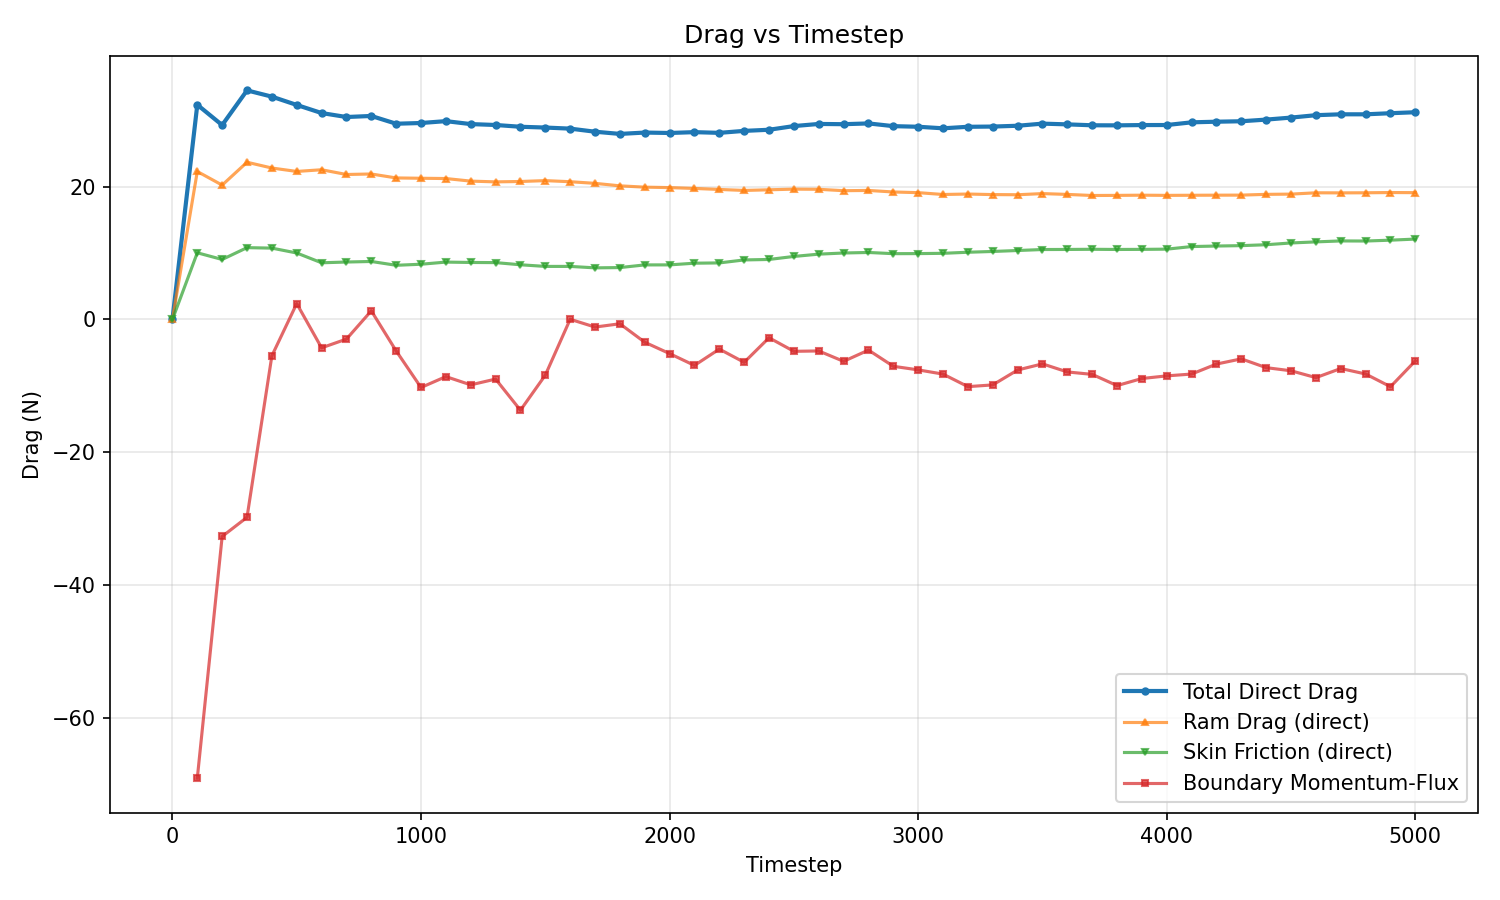
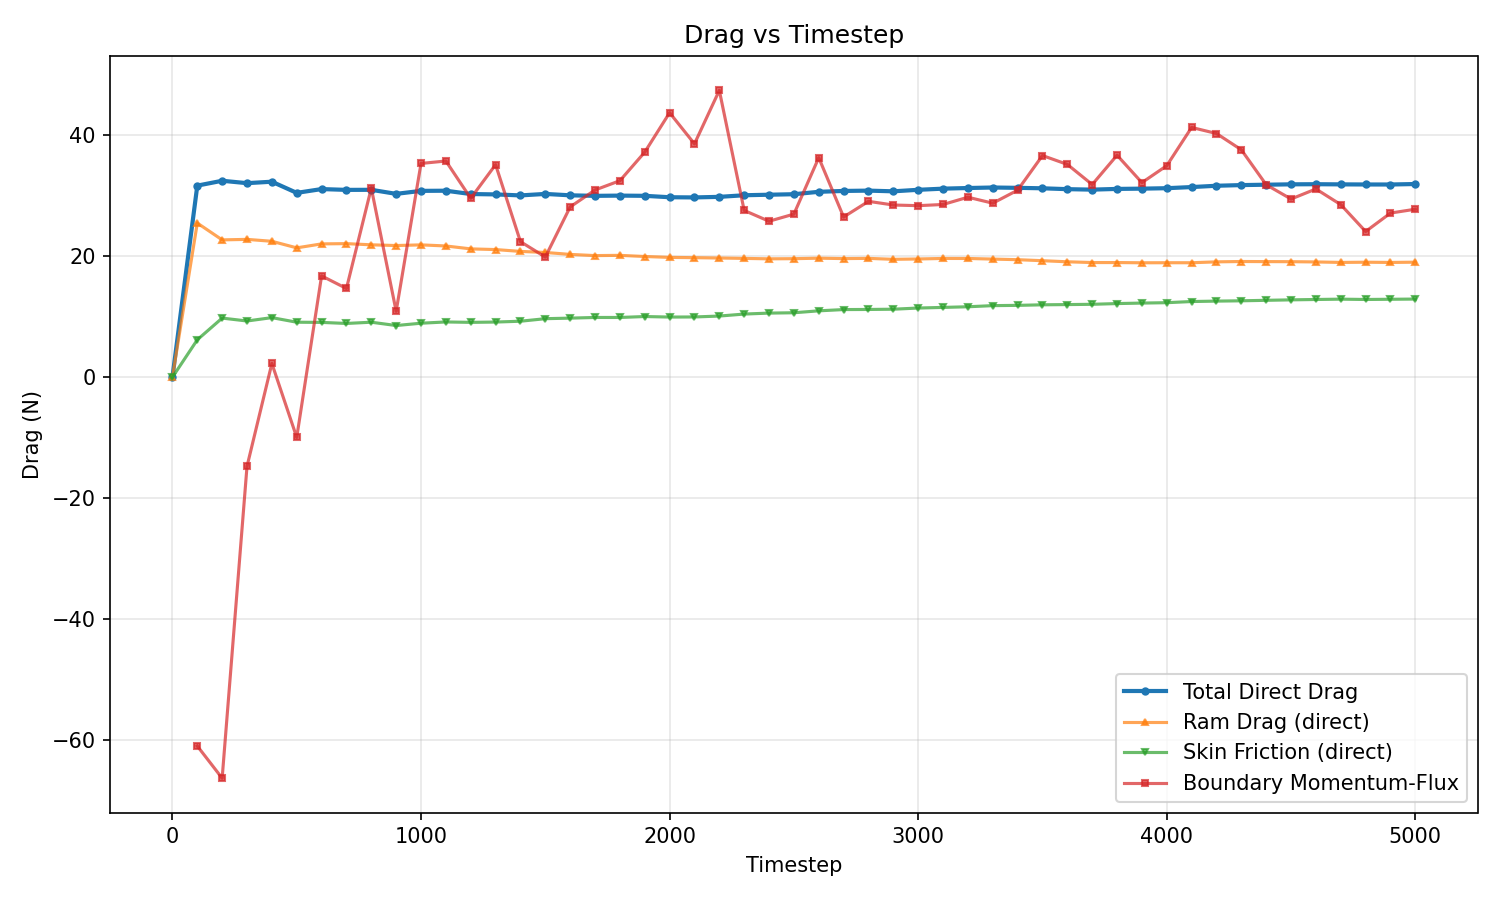
DRAG WORKS: Bdy drag averaging fix, streamlines bounds fix

diff --git a/scripts/plot_drag.py b/scripts/plot_drag.py
@@ -40,9 +40,9 @@ def read_drag(path):
 
 def read_flux_file(path):
 	"""
-	Read a flux data file with timestep, mass flux (Φ_m), and KE flux (Φ_ke) columns.
-	Also derive an effective normal speed v_n = sqrt(2 Φ_ke / Φ_m).
-	Returns: timesteps, mass_flux (Φ_m), ke_flux (Φ_ke), velocity (v_n).
+	Read a plane flux file with timestep, M_dot (kg/s), E_dot (W), N_dot (1/s).
+	Also derive an effective normal speed v_eff = sqrt(2 * E_dot / M_dot).
+	Returns: timesteps, M_dot, E_dot, v_eff, N_dot.
 	"""
 	if not os.path.exists(path):
 		raise FileNotFoundError(f"Pressure file not found: {path}")
@@ -51,25 +51,25 @@ def read_flux_file(path):
 		# single line
 		data = data.reshape((1, -1))
 	if data.shape[1] < 3:
-		raise ValueError("Expected at least three columns: timestep, mass_flux, ke_flux")
+		raise ValueError("Expected at least three columns: timestep, M_dot, E_dot")
 	
 	timesteps = data[:, 0]
-	mass_flux = data[:, 1]  # Φ_m (kg/m²/s)
-	ke_flux = data[:, 2]    # Φ_KE (J/m²/s)
-	n_flux = data[:, 3]    # Φ_N
+	m_dot = data[:, 1]  # total mass flow (kg/s)
+	e_dot = data[:, 2]  # total KE flow (W)
+	n_dot = data[:, 3]  # total number flow (1/s)
 	
 	# Debug: print flux values
 	print(f"\n{path}:")
-	print(f"  mass_flux mean: {np.mean(mass_flux):.6e}")
-	print(f"  ke_flux mean: {np.mean(ke_flux):.6e}")
-	print(f"  n_flux mean: {np.mean(n_flux):.6e}")
+	print(f"  M_dot mean: {np.mean(m_dot):.6e} kg/s")
+	print(f"  E_dot mean: {np.mean(e_dot):.6e} W")
+	print(f"  N_dot mean: {np.mean(n_dot):.6e} 1/s")
 
 	# Calculate velocity: v = sqrt(2*Φ_KE / Φ_m)
 	# Avoid division by zero
 	with np.errstate(divide='ignore', invalid='ignore'):
-		velocity = np.sqrt(2.0 * ke_flux / mass_flux)
+		velocity = np.sqrt(2.0 * e_dot / m_dot)
 
-	return timesteps, mass_flux, ke_flux, velocity, n_flux
+	return timesteps, m_dot, e_dot, velocity, n_dot
 
 
 def read_in_ampt_area(path='in.ampt'):
@@ -113,11 +113,17 @@ def main():
 	xlo_file = 'dumps/xlo_flux.dat'
 	xhi_file = 'dumps/xhi_flux.dat'
 	
-	# read flux data from xlo and xhi boundary surfaces, derive momentum flux Π = Φ_m * v
-	t_xlo, m_lo, ke_lo, v_lo, n_lo = read_flux_file(xlo_file)
-	t_xhi, m_hi, ke_hi, v_hi, n_hi = read_flux_file(xhi_file)
+	# read total flow data from xlo and xhi boundary surfaces
+	t_xlo, m_lo_dot, e_lo_dot, v_lo, n_lo_dot = read_flux_file(xlo_file)
+	t_xhi, m_hi_dot, e_hi_dot, v_hi, n_hi_dot = read_flux_file(xhi_file)
 	
 	area = read_in_ampt_area('in.ampt') # cross-sectional area in m^2
+	# convert totals to per-area fluxes
+	m_lo = m_lo_dot / area
+	m_hi = m_hi_dot / area
+	n_lo = n_lo_dot / area
+	n_hi = n_hi_dot / area
+
 	# Momentum-flux-based boundary drag: F ≈ (Π_lo - Π_hi) * A, where Π = Φ_m * v
 	pi_lo = m_lo * v_lo
 	pi_hi = m_hi * v_hi

diff --git a/scripts/streamlines.py b/scripts/streamlines.py
@@ -104,6 +104,30 @@ def load_flow_frame(prefix, step, dumps_dir=DUMPS_DIR):
             raise FileNotFoundError(f"Missing dump for step {step}: {path}")
         return read_sparta_grid_dump(path)
 
+# --------------------------------------------------------------------------------------
+
+def _safe_start_points(xc, yc, n_tracks):
+    """Generate start points strictly inside data bounds to satisfy streamplot."""
+    # small offsets to avoid touching domain extrema
+    if xc.size > 1:
+        dx = float(xc[1] - xc[0])
+    else:
+        dx = 0.0
+    if yc.size > 1:
+        dy = float(yc[1] - yc[0])
+    else:
+        dy = 0.0
+    epsx = 0.25 * dx
+    epsy = 0.25 * dy
+    x0 = float(xc[0] + epsx)
+    y_lo = float(yc[0] + epsy)
+    y_hi = float(yc[-1] - epsy) if yc.size > 1 else float(yc[0])
+    if y_hi < y_lo:
+        y_hi = y_lo
+    start_y = np.linspace(y_lo, y_hi, n_tracks, endpoint=True)
+    return np.column_stack((np.full_like(start_y, x0), start_y))
+
+# --------------------------------------------------------------------------------------
 
 def plot_streamlines(x_centers, y_centers, x_edges, y_edges, u_grid, v_grid, speed_grid, step, dt, output_path=OUTPUT_PATH):
     """draw a speed heatmap with white streamlines so the flow direction is obvious"""
@@ -122,8 +146,7 @@ def plot_streamlines(x_centers, y_centers, x_edges, y_edges, u_grid, v_grid, spe
     img = ax.imshow(speed_plot, extent=extent, origin='lower', cmap=cmap, aspect='auto')
 
     n_tracks = 100
-    start_y = np.linspace(y_centers[0], y_centers[-1], n_tracks, endpoint=True)
-    start_points = np.column_stack((np.full_like(start_y, x_centers[0]), start_y))
+    start_points = _safe_start_points(x_centers, y_centers, n_tracks)
 
     ax.streamplot(
         X,
@@ -216,8 +239,7 @@ def animate_streamlines(dump_prefix='flow', dumps_dir=DUMPS_DIR, out_path=ANIM_O
     dt = read_timestep_size()
 
     def fresh_start_points(xc, yc):
-        start_y_local = np.linspace(yc[0], yc[-1], n_tracks, endpoint=True)
-        return np.column_stack((np.full_like(start_y_local, xc[0]), start_y_local))
+        return _safe_start_points(xc, yc, n_tracks)
 
     def update(frame_idx):
         step = timesteps[frame_idx]
